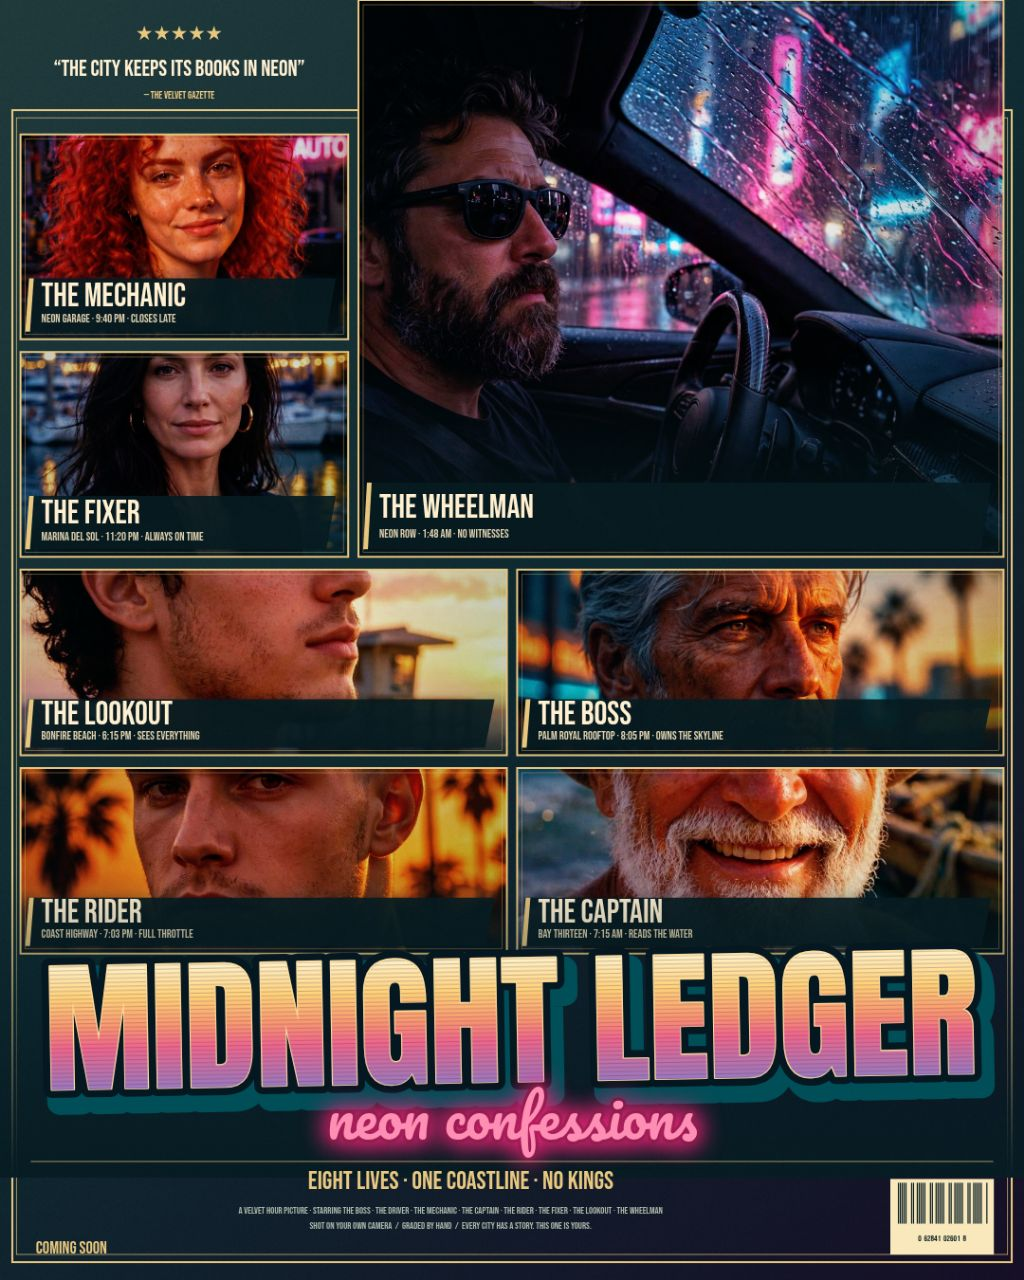
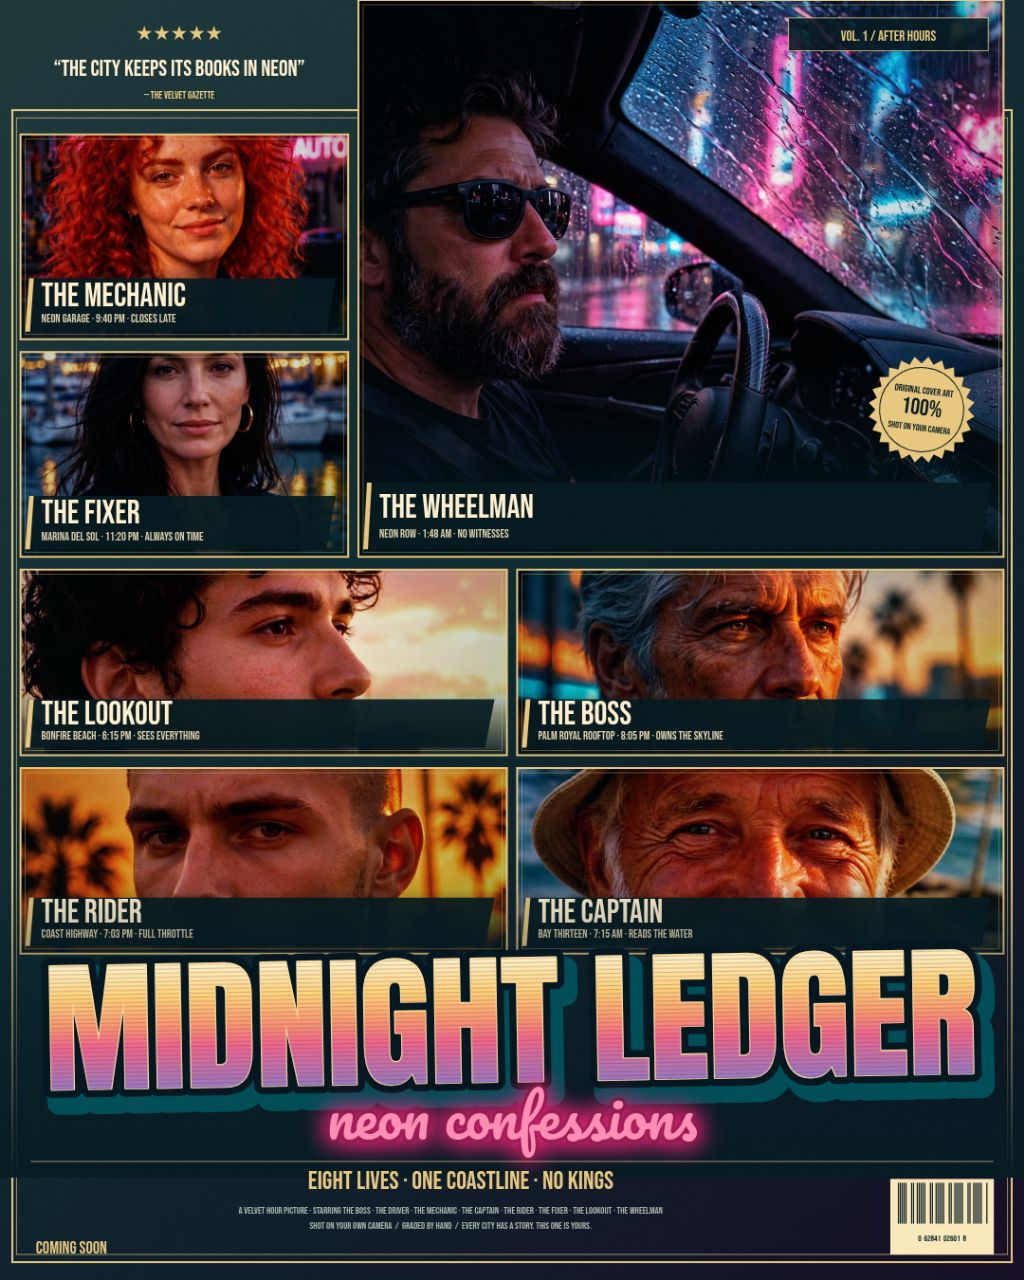
Polish portrait edition with camera seal and individually framed eye lines

diff --git a/app/src/render-poster.js b/app/src/render-poster.js
@@ -298,6 +298,25 @@ function drawStarburstSeal(ctx, x, y, radius) {
   ctx.restore();
 }
 
+function drawPortraitEditionBadge(ctx, width, height, unit) {
+  const x = width * .77;
+  const y = height * .014;
+  const w = width * .195;
+  const h = unit * .032;
+
+  ctx.fillStyle = '#071c23dd';
+  ctx.fillRect(x, y, w, h);
+  ctx.strokeStyle = GOLD;
+  ctx.lineWidth = .8;
+  ctx.strokeRect(x, y, w, h);
+  ctx.textAlign = 'center';
+  ctx.font = `${unit * .014}px Bebas`;
+  ctx.fillStyle = GOLD;
+  ctx.fillText('VOL. 1 / AFTER HOURS', x + w / 2, y + h * .70);
+
+  drawStarburstSeal(ctx, width * .90, height * .32, unit * .052);
+}
+
 export function drawPosterChrome(ctx, state, width, height) {
   const unit = Math.min(width, height);
   const portrait = height / width > 1.1;
@@ -503,7 +522,9 @@ export function renderCoverPoster(canvas, state, photos, { selected = -1 } = {})
   drawRetroChromeTitle(ctx, state.title, width, height, portrait);
   drawNeonScriptSubtitle(ctx, state, width, height, portrait);
 
-  if (!portrait) {
+  if (portrait) {
+    drawPortraitEditionBadge(ctx, width, height, unit);
+  } else {
     drawStarburstSeal(ctx, width * .895, height * .837, unit * .073);
   }
 

diff --git a/app/src/studio-state.js b/app/src/studio-state.js
@@ -108,6 +108,7 @@ export function createCoverState(castId = 'A') {
 
   const afterDark = castId === 'B';
   const goldenHour = castId === 'C';
+  const portraitEyeLine = { lookout: .25, rider: .18, captain: .28 };
 
   return {
     title: afterDark ? 'MIDNIGHT LEDGER' : 'VELVET HOUR',
@@ -126,7 +127,7 @@ export function createCoverState(castId = 'A') {
       name: cast[index][1],
       bio: cast[index][2],
       x: goldenHour && index === 7 ? .85 : 0,
-      y: 0,
+      y: afterDark ? (portraitEyeLine[cast[index][0]] || 0) : 0,
       zoom: 1
     }))
   };
